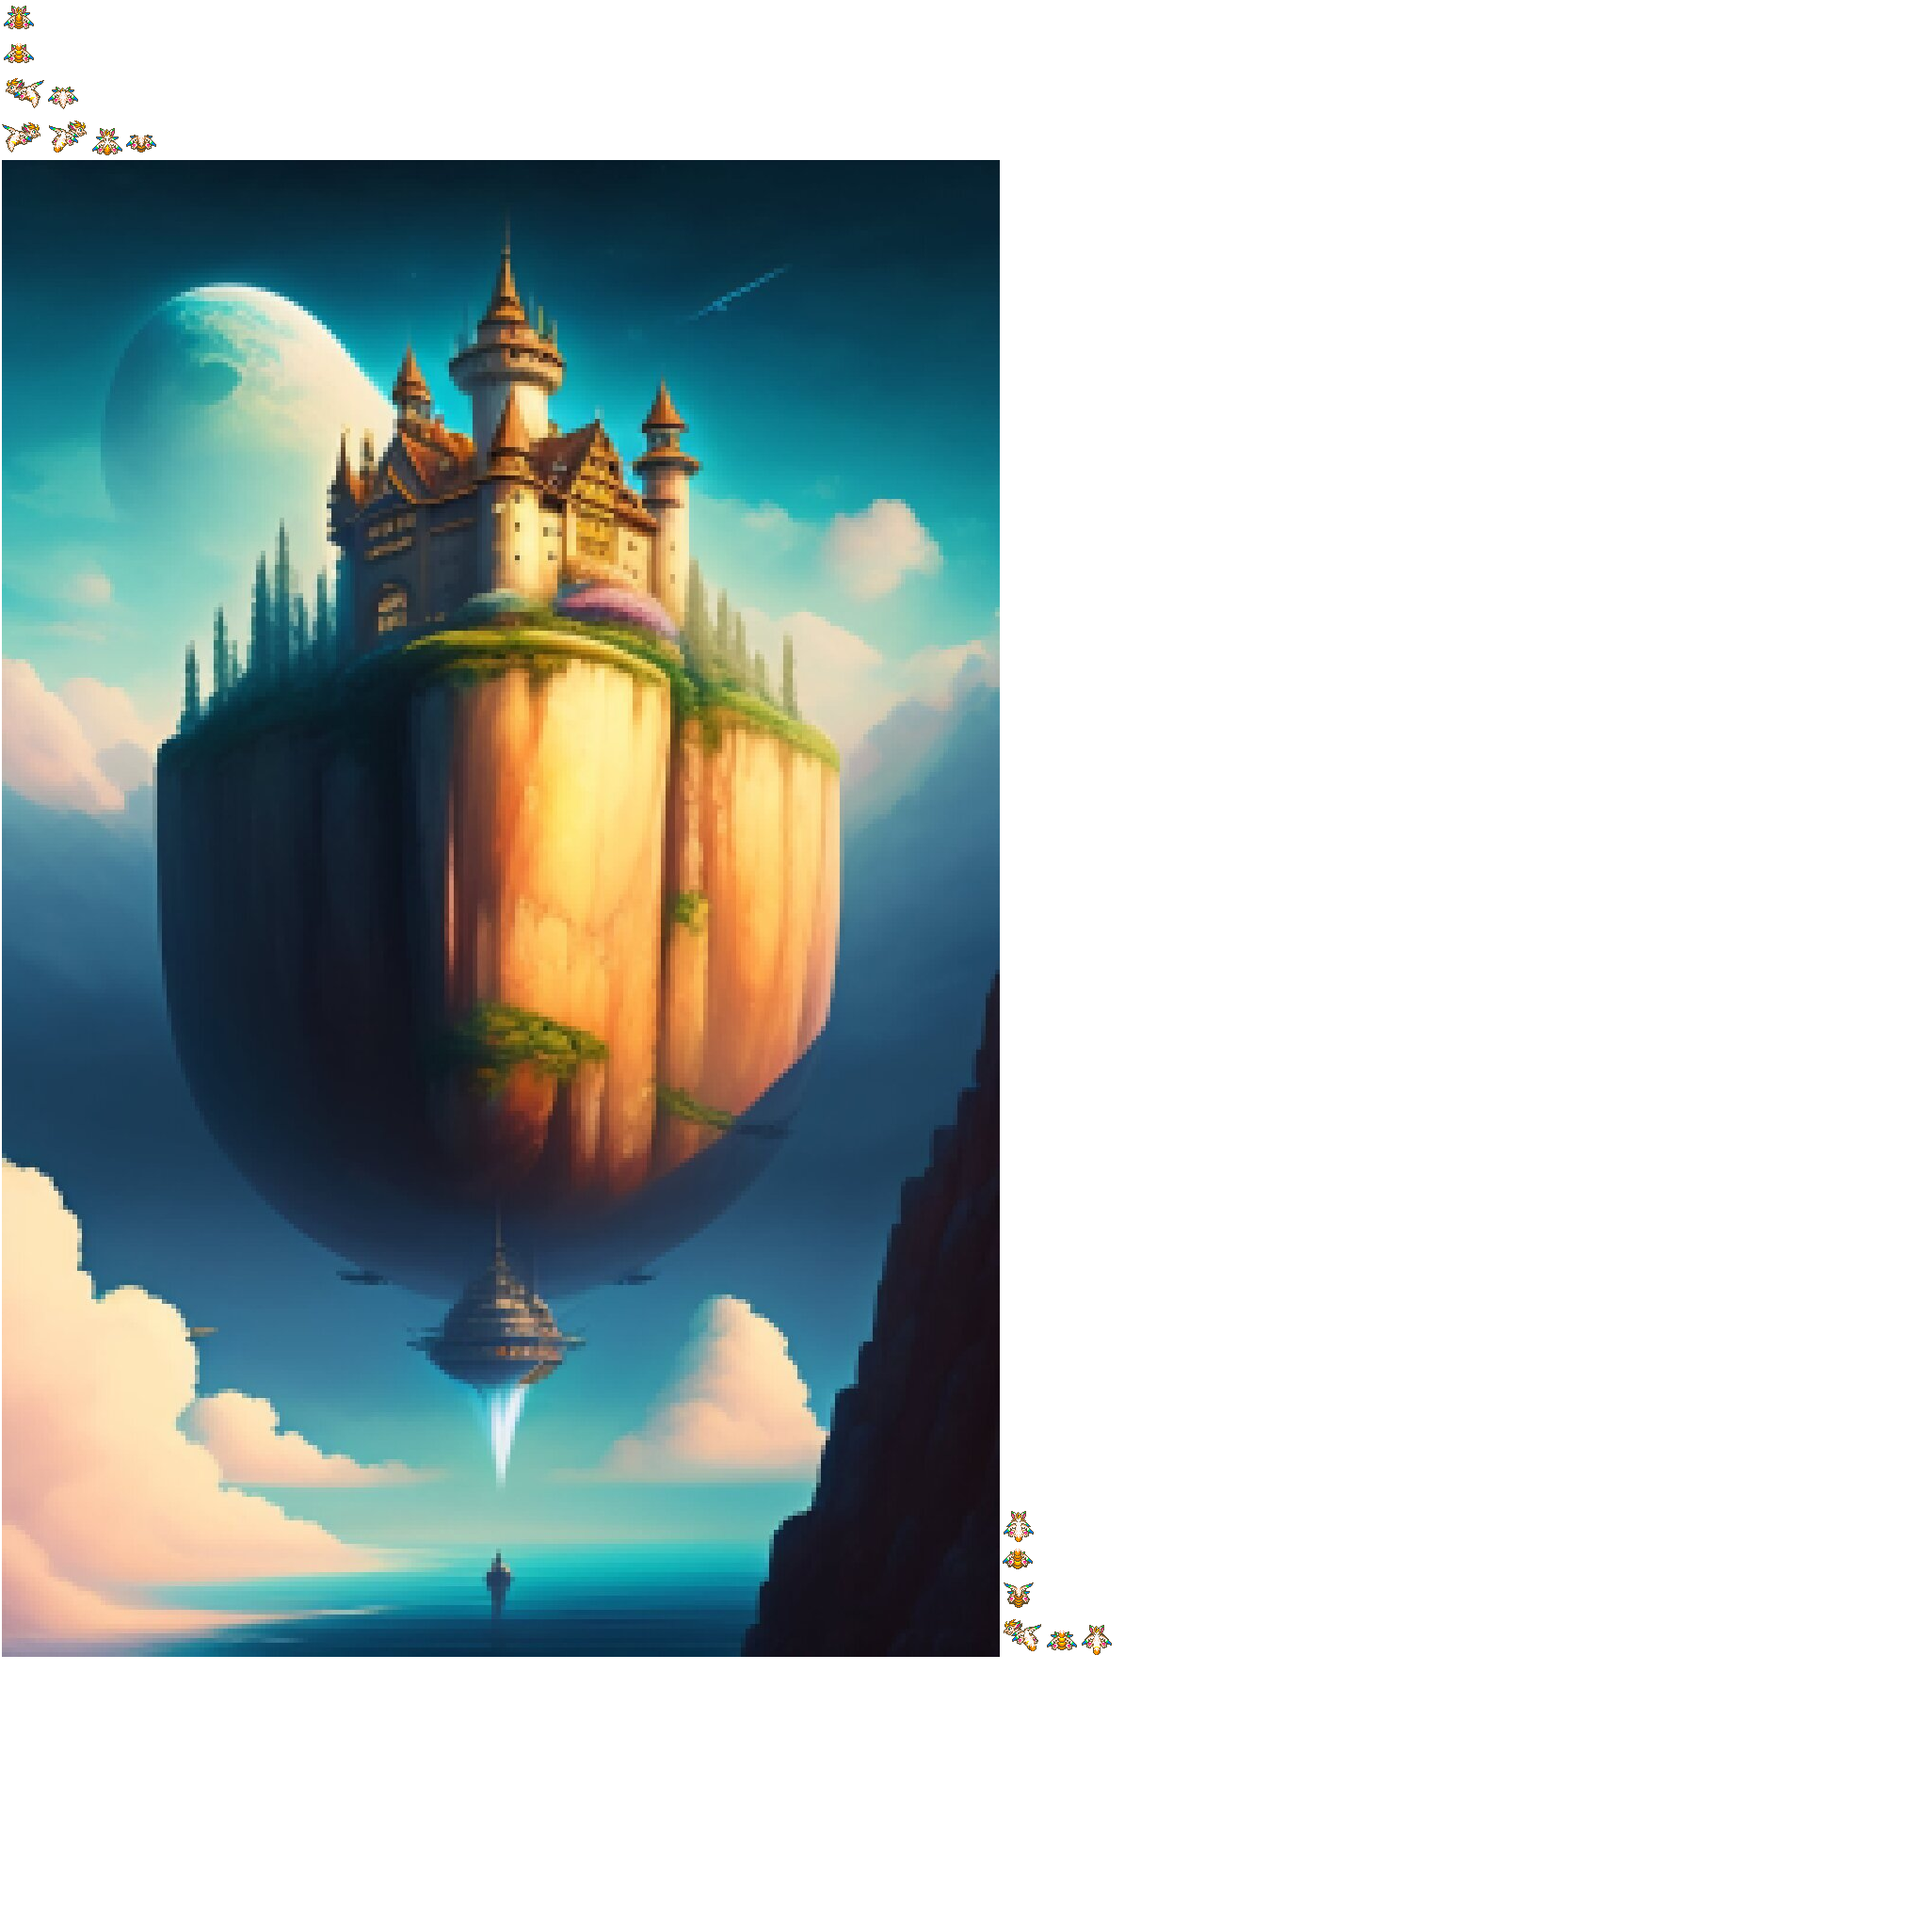
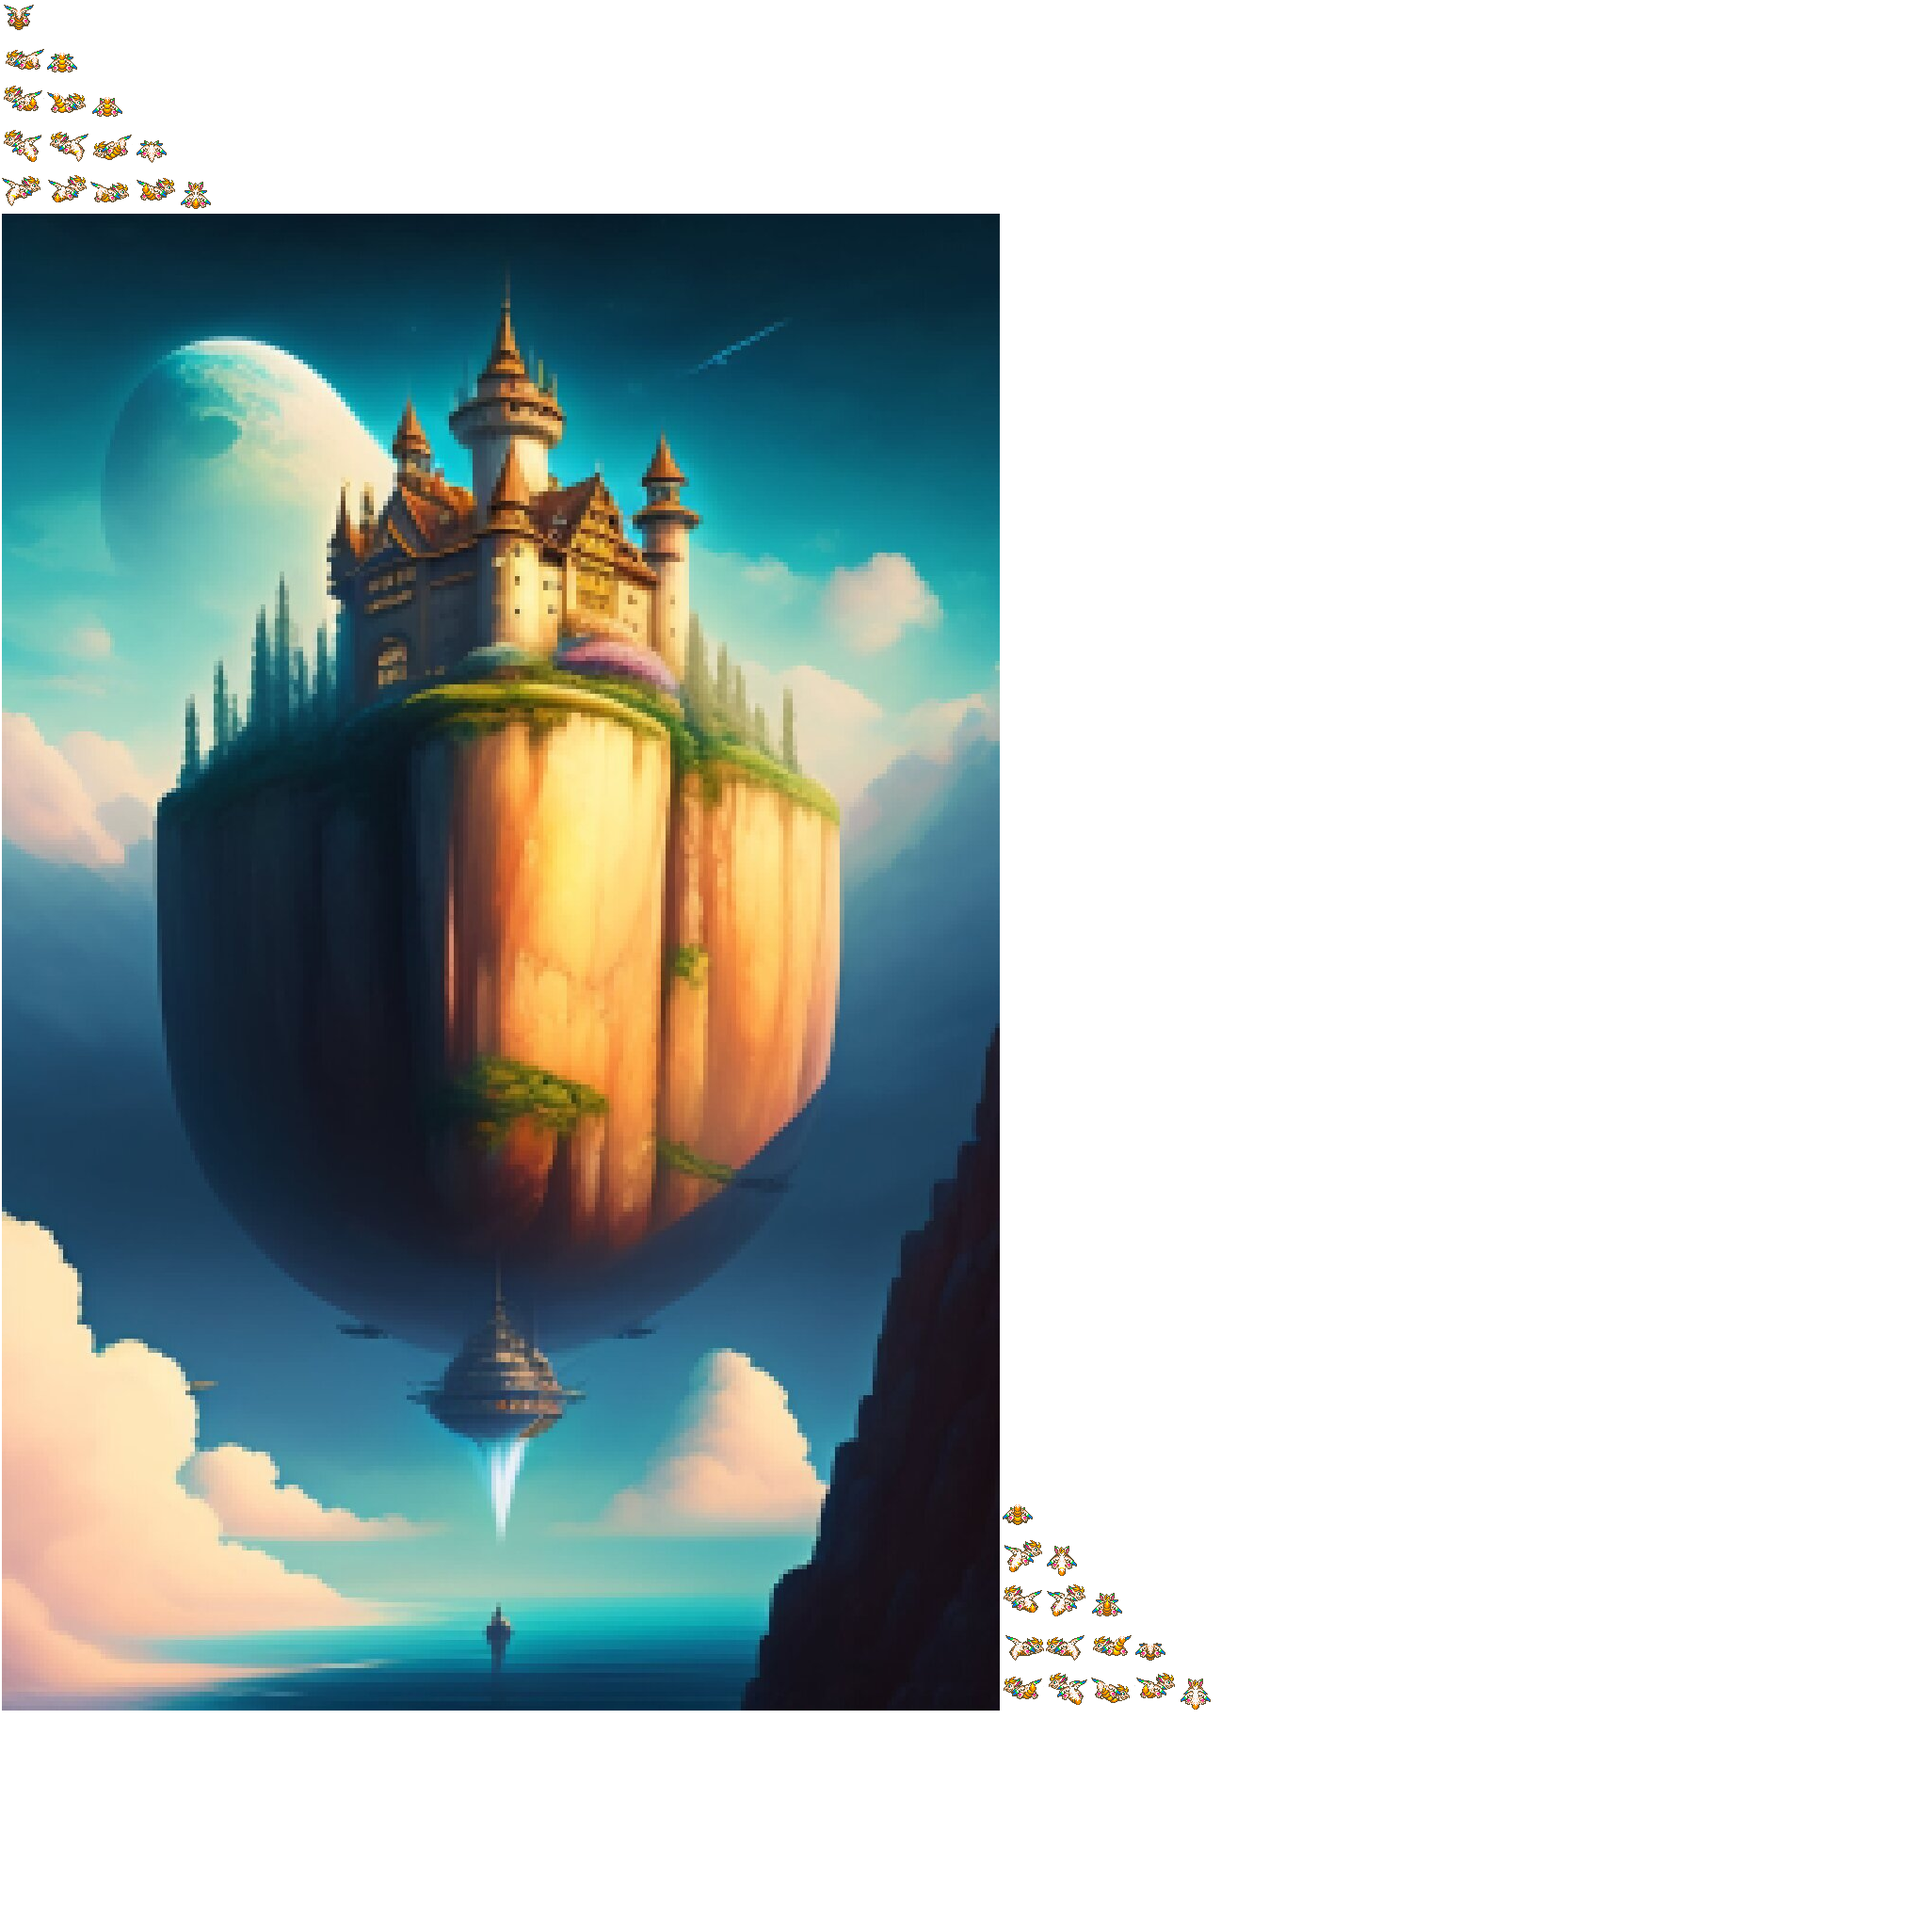
Empezando

Changed region(s): [[0.0, 0.0, 0.625, 0.9062], [0.0312, 0.5, 0.0938, 0.5312], [0.0, 0.7188, 0.0312, 0.75]]

diff --git a/core/src/com/mygdx/game/extras/AssetMan.java b/core/src/com/mygdx/game/extras/AssetMan.java
@@ -4,18 +4,34 @@ import static com.mygdx.game.extras.Utils.ATLAS_MAP;
 import static com.mygdx.game.extras.Utils.BACKGROUND_IMAGE;
 import static com.mygdx.game.extras.Utils.FLAMMIE1;
 import static com.mygdx.game.extras.Utils.FLAMMIE10;
+import static com.mygdx.game.extras.Utils.FLAMMIE10L;
+import static com.mygdx.game.extras.Utils.FLAMMIE10R;
 import static com.mygdx.game.extras.Utils.FLAMMIE1L;
 import static com.mygdx.game.extras.Utils.FLAMMIE1R;
 import static com.mygdx.game.extras.Utils.FLAMMIE2;
 import static com.mygdx.game.extras.Utils.FLAMMIE2L;
 import static com.mygdx.game.extras.Utils.FLAMMIE2R;
 import static com.mygdx.game.extras.Utils.FLAMMIE3;
+import static com.mygdx.game.extras.Utils.FLAMMIE3L;
+import static com.mygdx.game.extras.Utils.FLAMMIE3R;
 import static com.mygdx.game.extras.Utils.FLAMMIE4;
+import static com.mygdx.game.extras.Utils.FLAMMIE4L;
+import static com.mygdx.game.extras.Utils.FLAMMIE4R;
 import static com.mygdx.game.extras.Utils.FLAMMIE5;
+import static com.mygdx.game.extras.Utils.FLAMMIE5L;
+import static com.mygdx.game.extras.Utils.FLAMMIE5R;
 import static com.mygdx.game.extras.Utils.FLAMMIE6;
+import static com.mygdx.game.extras.Utils.FLAMMIE6L;
+import static com.mygdx.game.extras.Utils.FLAMMIE6R;
 import static com.mygdx.game.extras.Utils.FLAMMIE7;
+import static com.mygdx.game.extras.Utils.FLAMMIE7L;
+import static com.mygdx.game.extras.Utils.FLAMMIE7R;
 import static com.mygdx.game.extras.Utils.FLAMMIE8;
+import static com.mygdx.game.extras.Utils.FLAMMIE8L;
+import static com.mygdx.game.extras.Utils.FLAMMIE8R;
 import static com.mygdx.game.extras.Utils.FLAMMIE9;
+import static com.mygdx.game.extras.Utils.FLAMMIE9L;
+import static com.mygdx.game.extras.Utils.FLAMMIE9R;
 import static com.mygdx.game.extras.Utils.MUSIC_BG;
 
 import com.badlogic.gdx.assets.AssetManager;
@@ -93,33 +109,32 @@ public class AssetMan {
     }
 
     public Animation<TextureRegion> getFlammieAnimationL(){
-        return new Animation<TextureRegion>(0.2f,
+        return new Animation<TextureRegion>(0.1f,
                 textureAtlas.findRegion(FLAMMIE1L),
-                textureAtlas.findRegion(FLAMMIE2L)
-                /*,textureAtlas.findRegion(FLAMMIE3),
-                textureAtlas.findRegion(FLAMMIE4),
-                textureAtlas.findRegion(FLAMMIE5),
-                textureAtlas.findRegion(FLAMMIE6),
-                textureAtlas.findRegion(FLAMMIE7),
-                textureAtlas.findRegion(FLAMMIE8),
-                textureAtlas.findRegion(FLAMMIE9),
-                textureAtlas.findRegion(FLAMMIE10)*/
+                textureAtlas.findRegion(FLAMMIE2L),
+                textureAtlas.findRegion(FLAMMIE3L),
+                textureAtlas.findRegion(FLAMMIE4L),
+                textureAtlas.findRegion(FLAMMIE5L),
+                textureAtlas.findRegion(FLAMMIE6L),
+                textureAtlas.findRegion(FLAMMIE7L),
+                textureAtlas.findRegion(FLAMMIE8L),
+                textureAtlas.findRegion(FLAMMIE9L),
+                textureAtlas.findRegion(FLAMMIE10L)
         );
     }
 
     public Animation<TextureRegion> getFlammieAnimationR(){
-        return new Animation<TextureRegion>(0.2f,
+        return new Animation<TextureRegion>(0.1f,
                 textureAtlas.findRegion(FLAMMIE1R),
-                textureAtlas.findRegion(FLAMMIE2R)
-                /*,
-                textureAtlas.findRegion(FLAMMIE3),
-                textureAtlas.findRegion(FLAMMIE4),
-                textureAtlas.findRegion(FLAMMIE5),
-                textureAtlas.findRegion(FLAMMIE6),
-                textureAtlas.findRegion(FLAMMIE7),
-                textureAtlas.findRegion(FLAMMIE8),
-                textureAtlas.findRegion(FLAMMIE9),
-                textureAtlas.findRegion(FLAMMIE10)*/
+                textureAtlas.findRegion(FLAMMIE2R),
+                textureAtlas.findRegion(FLAMMIE3R),
+                textureAtlas.findRegion(FLAMMIE4R),
+                textureAtlas.findRegion(FLAMMIE5R),
+                textureAtlas.findRegion(FLAMMIE6R),
+                textureAtlas.findRegion(FLAMMIE7R),
+                textureAtlas.findRegion(FLAMMIE8R),
+                textureAtlas.findRegion(FLAMMIE9R),
+                textureAtlas.findRegion(FLAMMIE10R)
         );
     }
 

diff --git a/core/src/com/mygdx/game/extras/Utils.java b/core/src/com/mygdx/game/extras/Utils.java
@@ -32,10 +32,26 @@ public class Utils {
     // Movimiento hacia la derecha
     public static final String FLAMMIE1L = "Flammie1l";
     public static final String FLAMMIE2L = "Flammie2l";
+    public static final String FLAMMIE3L = "Flammie3l";
+    public static final String FLAMMIE4L = "Flammie4l";
+    public static final String FLAMMIE5L = "Flammie5l";
+    public static final String FLAMMIE6L = "Flammie6l";
+    public static final String FLAMMIE7L = "Flammie7l";
+    public static final String FLAMMIE8L = "Flammie8l";
+    public static final String FLAMMIE9L = "Flammie9l";
+    public static final String FLAMMIE10L = "Flammie10l";
 
     // Movimiento hacia la izquierda
     public static final String FLAMMIE1R = "Flammie1r";
     public static final String FLAMMIE2R = "Flammie2r";
+    public static final String FLAMMIE3R = "Flammie3r";
+    public static final String FLAMMIE4R = "Flammie4r";
+    public static final String FLAMMIE5R = "Flammie5r";
+    public static final String FLAMMIE6R = "Flammie6r";
+    public static final String FLAMMIE7R = "Flammie7r";
+    public static final String FLAMMIE8R = "Flammie8r";
+    public static final String FLAMMIE9R = "Flammie9r";
+    public static final String FLAMMIE10R = "Flammie10r";
 
     // Música y sonidos
     public static final String MUSIC_BG = "musicSound/musicBackground.mp3";
